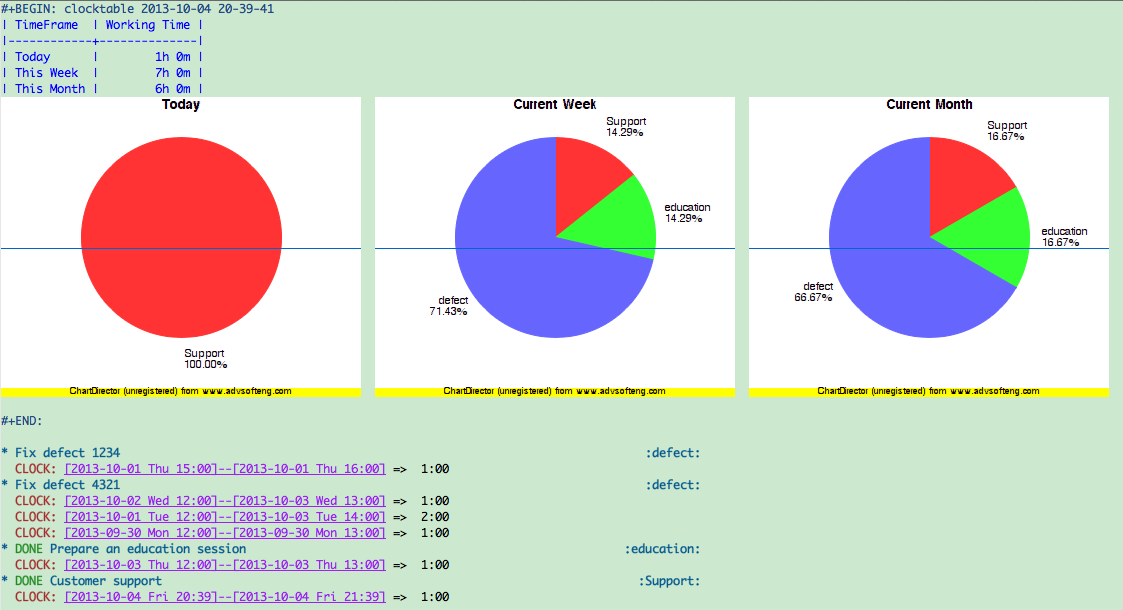
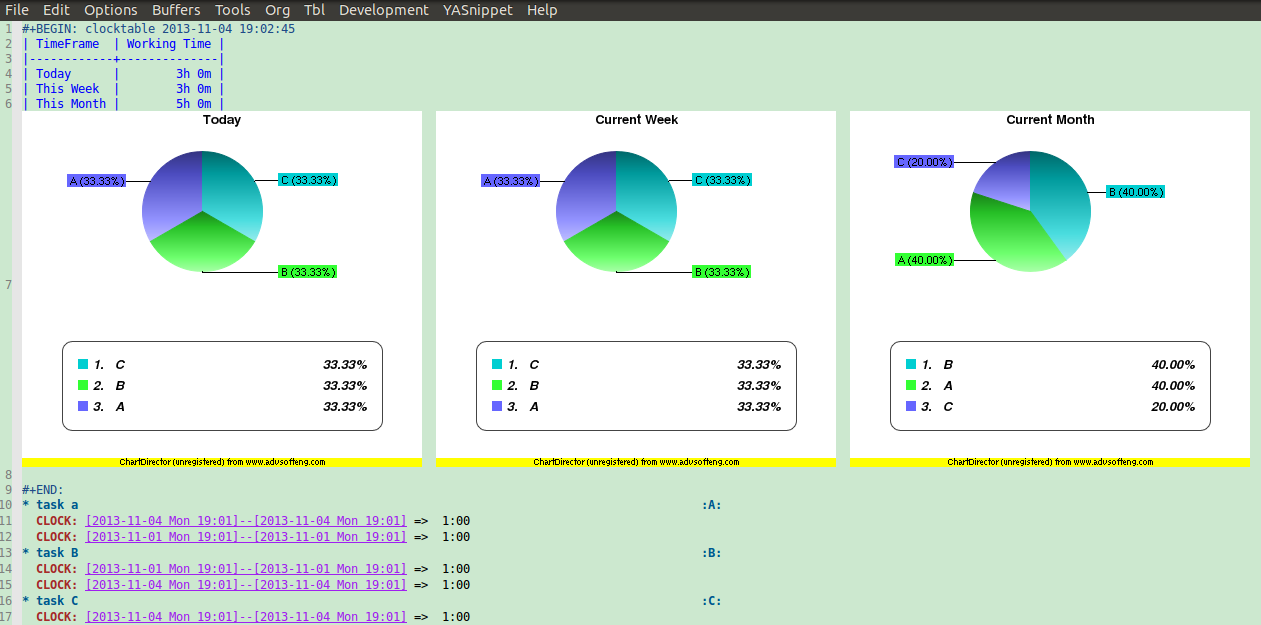
update README

diff --git a/orgtime.py b/orgtime.py
@@ -137,7 +137,11 @@ class TimeData(object):
         self._workingDir = workingDir
         self._orgFileName = orgFileName
 
-
+    def getTagCount(self,):
+        """
+        """
+        return len(self._timeData)
+        
     def addTime(self, tag, (startTime,endTime,timeSpent)):
         """
         """
@@ -161,7 +165,7 @@ class TimeData(object):
         return os.path.join(self._workingDir,fileName)
 
     
-    def pieChart(self, ):
+    def pieChart(self, maxTag ):
         """
         """
 
@@ -169,7 +173,7 @@ class TimeData(object):
         items = [(wtime,tag) for tag,wtime in items]
         items.sort(reverse=True)
         
-        c = PieChart(400, 400)
+        c = PieChart(400, 290 + maxTag*22)
         c.addTitle(self._timeFrame.getTimeFrameName(), "arialbd.ttf", 10)
         c.setPieSize(180, 100, 60)
 
@@ -230,6 +234,10 @@ if __name__ == '__main__':
         timeDataCurMonth.addTime(curTag,orgClockTime)
     fd.close()
 
+    maxTag = max( timeDataToday.getTagCount(), timeDataCurWeek.getTagCount(), timeDataCurMonth.getTagCount() )
+    
+    
+    
     orgTable = OrgModeTxt.OrgTable(2)
     orgTable.setHeaderData(["TimeFrame","Working Time"])
     orgTable.addRowData(["Today",timeDataToday.totalTimeStr()])
@@ -238,6 +246,6 @@ if __name__ == '__main__':
     orgTable.printTable()
     for timeData in [timeDataToday,timeDataCurWeek,timeDataCurMonth]:
         if timeData.totalTime() is not 0:
-            timeData.pieChart()
+            timeData.pieChart(maxTag)
             print OrgModeTxt.fileLink(timeData.pieChartPath()) + " ",
     

diff --git a/README.md b/README.md
@@ -3,6 +3,7 @@ OrgTime
 ## Overview
 This emacs extension is designed to work with emacs org-mode. It can generate a time usage summary from your org-mode file. Giving a table summary of the working time of current month, current week and today (I will not feel guilty when seeing I already have worked more than 40 hours this week ). Also will give a pie chart of the time spend on each tag.
 Here is an example:
+
 ![alt tag](https://raw.github.com/Chengming/OrgTime/master/example.png)
 ## Install & Setup
 1. install pychartdir (see http://www.advsofteng.com/download.html for more information)
